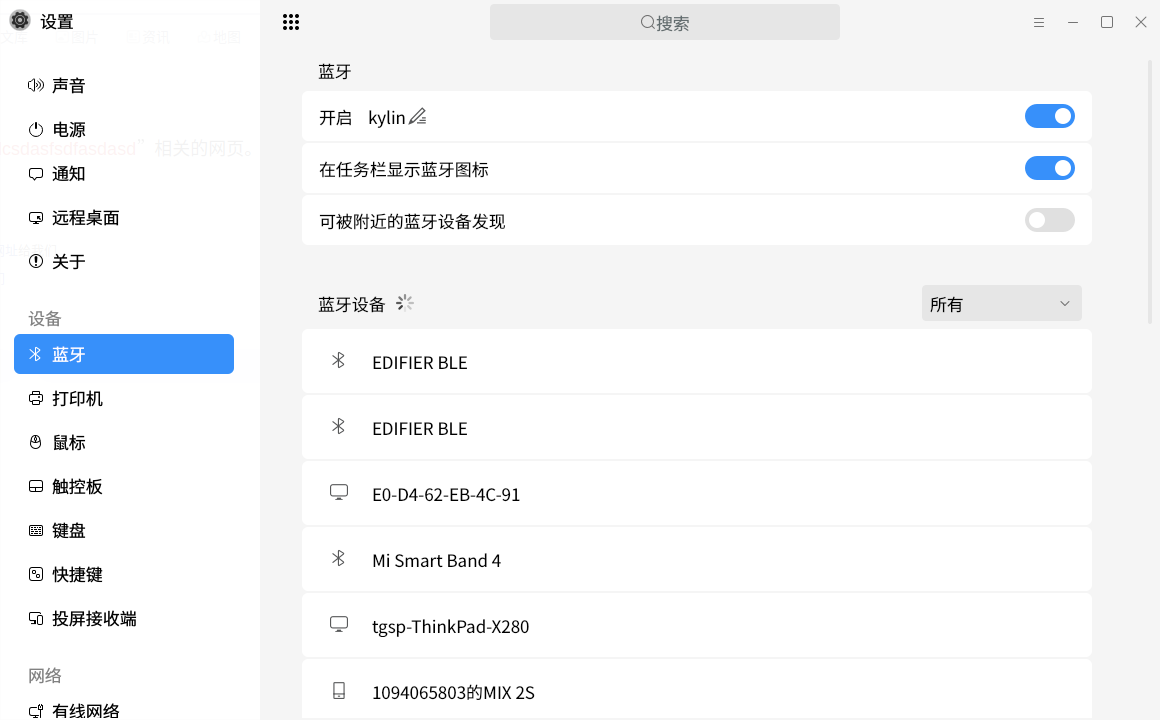
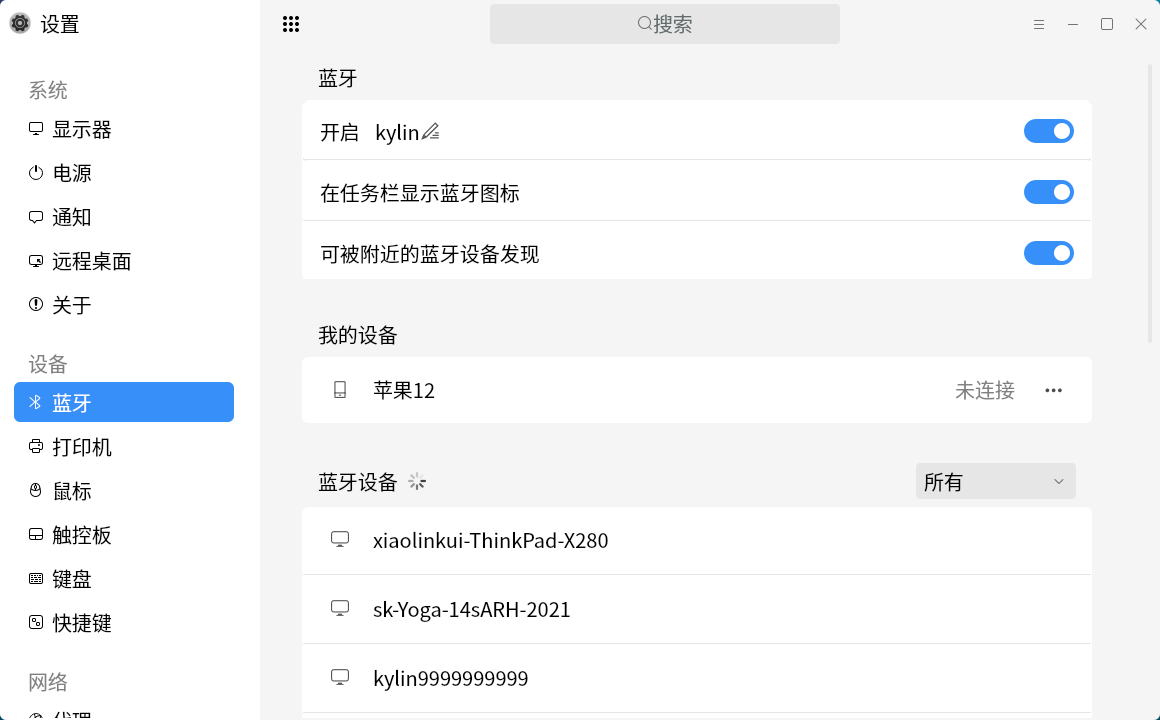
更新了蓝牙模块介绍和图片

diff --git a/data/zh_CN/index.md b/data/zh_CN/index.md
@@ -99,15 +99,13 @@
 
 ### 蓝牙
 
-蓝牙模块提供了开关蓝牙、修改蓝牙名称、显示隐藏蓝牙任务图标、发现周围蓝牙设备、本机设备的可见性；与发现的蓝牙设备配对、连接、断开、移除蓝牙设备的基本功能，如图所示。
+蓝牙模块提供了开关蓝牙、修改蓝牙名称、显示隐藏蓝牙任务图标、自动发现周围蓝牙设备、本机设备的可见性；与发现的蓝牙设备配对、连接、断开、移除蓝牙设备的基本功能，如图所示。
 
 - 开关蓝牙：点击开启蓝牙按钮，对本机的蓝牙适配器开启和关闭
 
-- 修改蓝牙名称：将鼠标在“可以被发现为xxx”上双击，在输入框输入想要的名称
+- 修改蓝牙名称：将鼠标在“修改图标”上单击，在弹出输入框输入想要的名称
 
 - 显示隐藏蓝牙任务栏图标：点击按钮，可以在任务上显示或者不显示托盘上的蓝牙图标
-
-- 发现周围蓝牙设备：首次进入蓝牙模块后，会进行周围蓝牙设备的扫描，结束后点击刷新，再次进行扫描
 
 - 发现的蓝牙设备基础操作：鼠标悬浮到发现的设备上，出现连接按钮，点击连接按钮与设备配对并连接；设备连接后，出现在我的设备一栏；这时鼠标再悬浮到设备上，出现断开按钮和移除按钮，点击断开按钮与设备断开连接，点击移除按钮，移除与设备的配对
 
